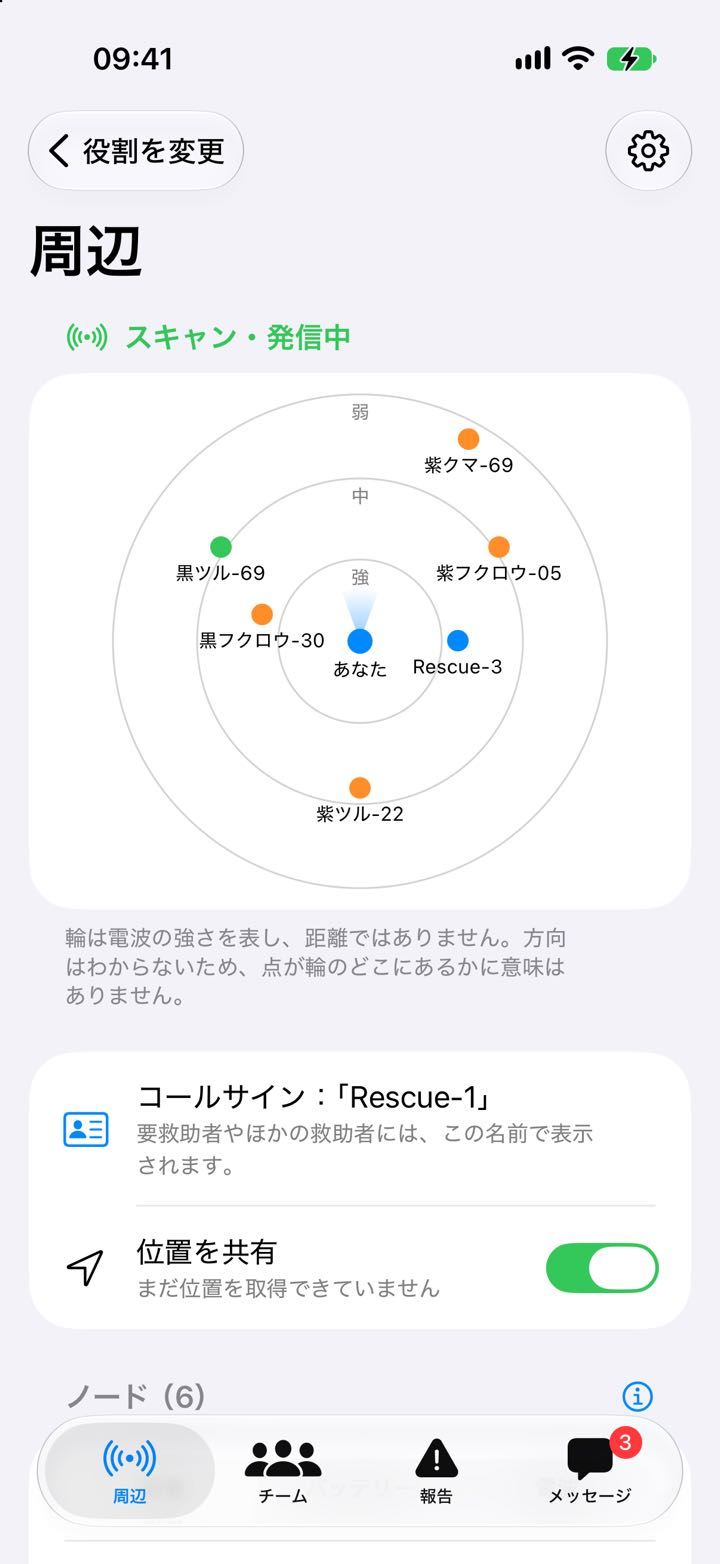
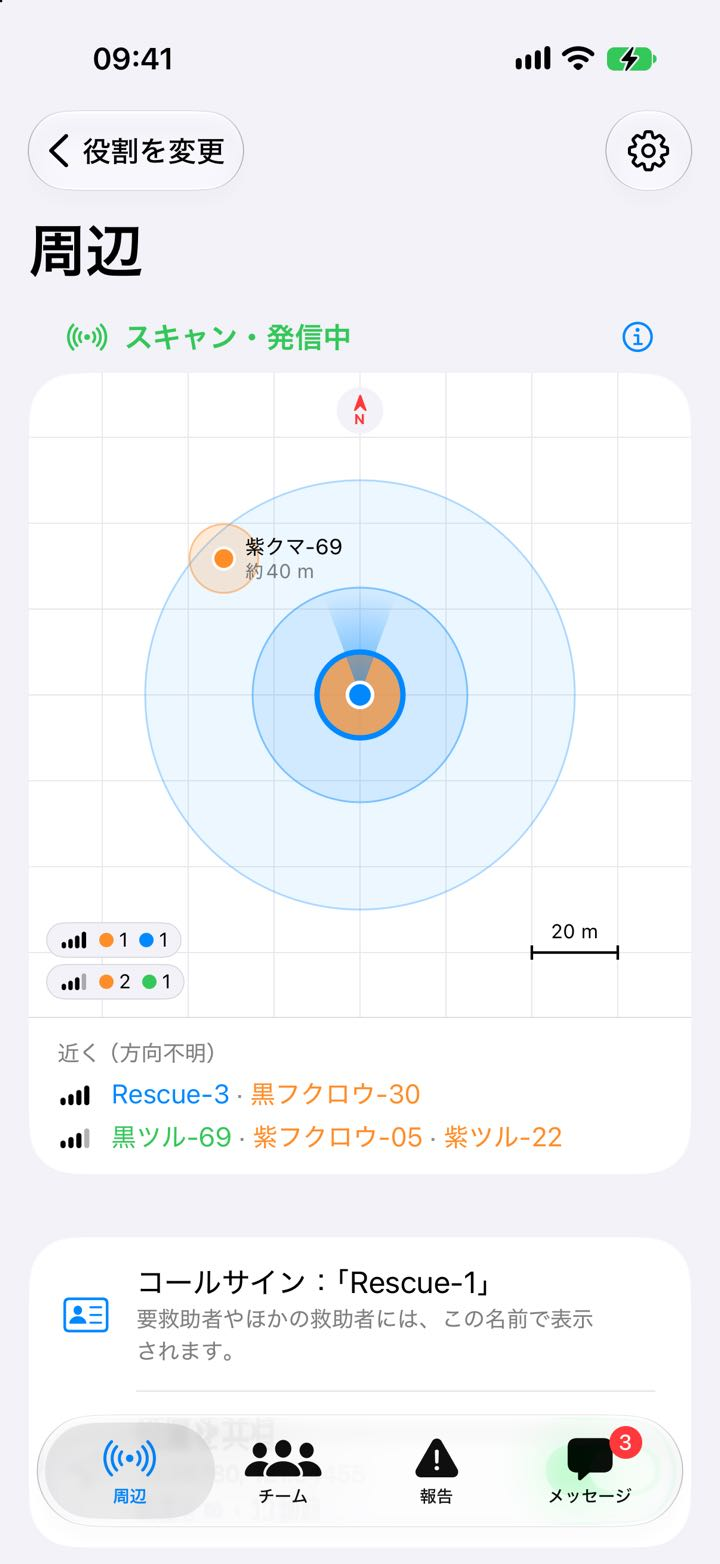
feat: HelpKnock promotion pages show the redesigned radar
The radar line under For rescuers now says it is north-up, draws a dot only when both positions give a direction, groups everyone else into three rings by Bluetooth signal, and shows people only other rescuers hear. Same sentence as the 1.1.2 App Store description in all four languages. The rescuer and victim-rescuers screenshots are retaken with the new radar.

diff --git a/helpknock/ja/index.html b/helpknock/ja/index.html
@@ -110,7 +110,7 @@
         <h2>誰を先に助けるべきか、ひと目で。</h2>
         <ul>
           <li>1人1枚のカードで、バッテリー、操作がない時間と動いていない時間、報告された危険、一緒にいる人数がひと目でわかります。</li>
-          <li>自分が受信しているビーコンに加え、ほかの救助者だけが受信しているビーコンもレーダーに表示されます。</li>
+          <li>常に北が上になるレーダー。お互いの位置が正確にわかり方向を示せる相手は点で、それ以外の人はBluetoothの電波の強さに応じて3つの輪に分けて表示します。自分には電波が直接届かず、ほかの救助者にだけ届いている人も、その救助者を経由して表示します。</li>
           <li>「対応します」を付けると、範囲内のすべての救助者に見えます。</li>
           <li>名簿とチームチャットがあるチーム機能。インターネットは不要です。</li>
           <li>アプリを開いている間は、同じWi-Fiやインターネット共有につながっている救助者どうしで、各自が受信しているビーコン、「対応します」のマーク、メッセージも共有し、つながっている救助者全員が確認できます。</li>

diff --git a/helpknock/ko/index.html b/helpknock/ko/index.html
@@ -110,7 +110,7 @@
         <h2>누구를 먼저 도와야 할지 한눈에.</h2>
         <ul>
           <li>한 사람당 카드 한 장으로 배터리, 마지막으로 휴대폰을 만진 후 지난 시간, 움직이지 않은 시간, 보고된 위험, 함께 있는 인원을 바로 확인할 수 있습니다.</li>
-          <li>내가 수신하는 비콘과 함께, 다른 구조자만 수신하고 있는 비콘도 레이더에 표시됩니다.</li>
+          <li>북쪽이 위로 고정된 레이더. 내 위치와 상대 위치가 모두 정확해 방향을 알 수 있으면 상대를 점으로 표시하고, 그 밖의 사람은 Bluetooth 신호 세기에 따라 세 원 중 하나에 표시합니다. 내 휴대폰에는 신호가 잡히지 않지만 다른 구조자의 휴대폰에는 잡히는 사람도 표시합니다.</li>
           <li>“제가 맡겠습니다”를 남기면 범위 안의 모든 구조자가 볼 수 있습니다.</li>
           <li>명단과 팀 채팅이 있는 팀 기능. 인터넷이 필요 없습니다.</li>
           <li>앱이 열려 있는 동안에는 같은 Wi-Fi나 개인용 핫스팟에 연결된 구조자끼리 각자 수신한 비콘, “제가 맡겠습니다” 표시, 메시지도 공유하므로 연결된 구조자 모두가 볼 수 있습니다.</li>

diff --git a/helpknock/index.html b/helpknock/index.html
@@ -110,7 +110,7 @@
         <h2>See who needs help first.</h2>
         <ul>
           <li>One card per person: battery, idle and still time, hazards and headcount at a glance.</li>
-          <li>A radar of the beacons you can hear, plus people only other rescuers can hear.</li>
+          <li>A north-up radar: when both positions are accurate enough to give a direction, the person is drawn as a dot; everyone else goes into three rings by Bluetooth signal. People whose signal only reaches other rescuers' phones are shown too, passed on by those rescuers.</li>
           <li>Mark “I am handling this”, and every rescuer in range sees it.</li>
           <li>Teams with a roster and a team chat, no internet needed.</li>
           <li>While the app is open, rescuers on the same Wi-Fi or phone hotspot also share who they hear, marks and messages, so every connected rescuer sees what each one's Bluetooth picks up.</li>

diff --git a/helpknock/zh-Hant/index.html b/helpknock/zh-Hant/index.html
@@ -110,7 +110,7 @@
         <h2>一眼看出誰最需要幫助。</h2>
         <ul>
           <li>狀態板一人一張卡：電量、多久沒操作、多久沒移動、周遭有什麼危險、現場有幾個人，一眼看完。</li>
-          <li>雷達畫出你聽得到的燈塔，也畫出只有其他救援者聽得到的人。</li>
+          <li>北朝上的雷達：雙方位置都夠準、看得出方向，對方就畫成點；其他人照藍牙訊號分在三圈裡。訊號只有其他救援者收得到的人，也會經由他們轉來、出現在上面。</li>
           <li>標記「我來處理」，範圍內每位救援者都看得到。</li>
           <li>小隊有名冊與隊內聊天室，不需要網際網路。</li>
           <li>app 開著的時候，連在同一個 Wi-Fi 或個人熱點的救援者還會互相分享各自聽到的人、標記與訊息，連上的救援者都看得到。</li>
